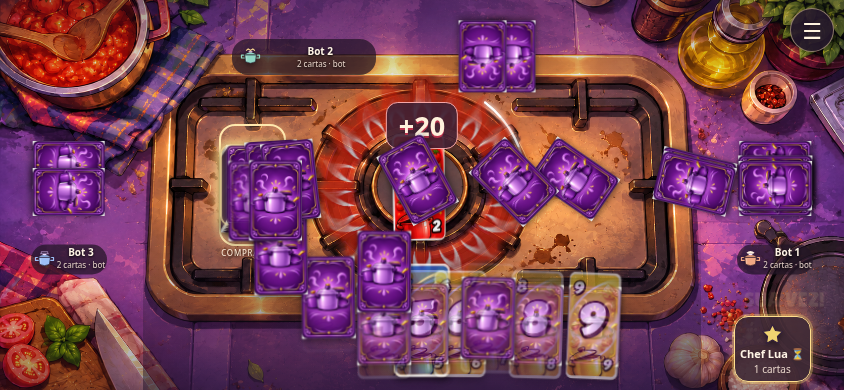
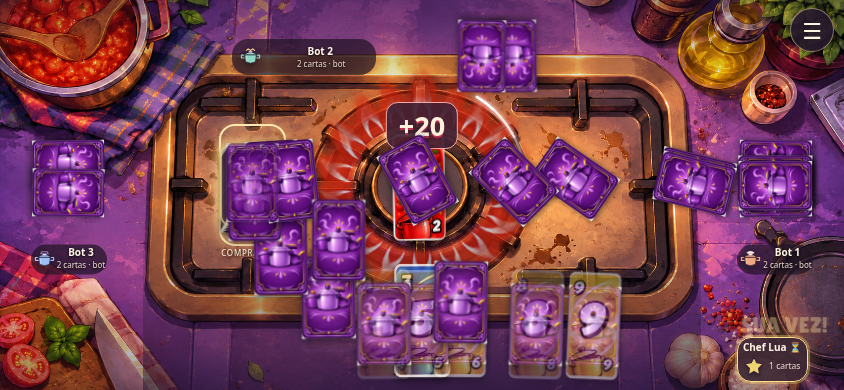
Compacta o card humano em landscape baixo sem sobrepor adversário e aviso

diff --git a/IMPORTACAO_PANELAS/index.html b/IMPORTACAO_PANELAS/index.html
@@ -416,7 +416,7 @@ function finishControlHTML(){let ranks=s.summary.map(x=>`<div class="notice"><st
 function render(){if(!s)return;PanelasMesa.beforeRender(s);$('roundLabel').textContent=`Rodada ${s.round} · ${s.o.duo?'Duplas':'Individual'}`;$('status').textContent=s.phase==='playing'?`Vez de ${names(s.current)}`:s.phase==='roundOver'?'Fim da rodada':'Fim da partida';
 $('score').innerHTML=s.o.duo?`<span>${safeName(0)} + Bot 2: ${s.teams[0]}</span><span>Bot 1 + Bot 3: ${s.teams[1]}</span>`:s.players.map(p=>`<span>${safeName(p.id)}: ${p.score}</span>`).join('');
 $('stateText').textContent=s.phase==='playing'?`Sentido: ${s.direction===-1?'horário':'anti-horário'} · Cor: ${CN[s.activeColor]} · Monte: ${s.deck.length} · ${s.penalty?'PENALIDADE OBRIGATÓRIA +'+s.penalty:'Sem penalidade'}${s.o.timeout&&s.deadline?' · Tempo: '+Math.max(0,Math.ceil((s.deadline-Date.now())/1000))+'s':''}`:s.message;
-for(let i=0;i<4;i++){const p=s.players[i],active=s.current===i&&s.phase==='playing';const show=s.reveal||(s.o.duo&&i===2);let node=$('player'+i);node.classList.toggle('active',active);node.innerHTML=`<div class="name">${safeName(i)} ${active?'⏳':''}${s.o.duo?' <span class="tag">'+(i%2?'B':'A')+'</span>':''}</div><div class="sub">${p.hand.length} cartas${i===0?'':' · bot'}</div>${i!==0?(show?'<div class="subhand">'+p.hand.map(c=>cardHTML(c,true)).join('')+'</div>':'<div class="back">'+'▰ '.repeat(Math.min(6,p.hand.length))+'</div>'):''}`;}
+for(let i=0;i<4;i++){const p=s.players[i],active=s.current===i&&s.phase==='playing';const show=s.reveal||(s.o.duo&&i===2);let node=$('player'+i);node.classList.toggle('active',active);node.innerHTML=`<div class="name" title="${safeName(i)}">${safeName(i)} ${active?'⏳':''}${s.o.duo?' <span class="tag">'+(i%2?'B':'A')+'</span>':''}</div><div class="sub">${p.hand.length} cartas${i===0?'':' · bot'}</div>${i!==0?(show?'<div class="subhand">'+p.hand.map(c=>cardHTML(c,true)).join('')+'</div>':'<div class="back">'+'▰ '.repeat(Math.min(6,p.hand.length))+'</div>'):''}`;}
 $('pile').innerHTML=`<div class="card" style="background:#283f68;color:#b9d1ff;border:2px solid #718cbb"><small>MONTE</small><span>⬚</span><small>${s.deck.length}</small></div>`;$('discard').innerHTML=PanelasMesa.discardHTML(s.discard,cardHTML,s);$('centerMsg').innerHTML=`Cor: <strong>${CN[s.activeColor]}</strong><div>${s.penalty?'⚠ OBRIGATÓRIO +'+s.penalty:'Carta central'}</div>`;
 $('handCount').textContent=s.players[0].hand.length+' cartas';
 const cards=[...s.players[0].hand].sort((a,b)=>(COLORS.indexOf(a.color)+1||9)-(COLORS.indexOf(b.color)+1||9)||a.type.localeCompare(b.type)||(a.num??0)-(b.num??0));

diff --git a/IMPORTACAO_PANELAS/mesa.css b/IMPORTACAO_PANELAS/mesa.css
@@ -346,5 +346,12 @@ body.playing { overflow:hidden; height:100vh; height:100dvh; }
 @keyframes mandatory-draw {0%,100%{opacity:.7;filter:brightness(1)}50%{opacity:1;filter:brightness(1.4);box-shadow:0 0 19px #ffc568,inset 0 0 9px #ffe7b0}}
 @media(orientation:portrait){#turnCue {right:16px;bottom:clamp(150px,28vh,240px);max-width:140px;font-size:24px}}
 @media(prefers-reduced-motion:reduce){.hand {transition:none}#buyBtn.mandatory-buy::after {animation:none}}
+/* HUD compacto em telas baixas: nome e avatar não avançam sobre o adversário lateral. */
+@media(orientation:landscape) and (max-height:600px){
+ .seat.self {display:grid;grid-template-columns:22px minmax(0,1fr);grid-template-rows:auto auto;gap:2px 3px;padding:4px 5px}
+ .seat.self>.name {grid-column:1 / -1;grid-row:1;font-size:10px;line-height:1.15;display:-webkit-box;-webkit-box-orient:vertical;-webkit-line-clamp:2;overflow:hidden}
+ .seat.self>.pan-avatar {grid-column:1;grid-row:2;width:22px;height:22px}
+ .seat.self>.sub {grid-column:2;grid-row:2;font-size:8.5px;line-height:1.1;min-width:0}
+}
 .table[data-direction="-1"] .tail-clockwise.tail-mid,.table[data-direction="1"] .tail-counterclockwise.tail-mid{opacity:.4}
 .table[data-direction="-1"] .tail-clockwise.tail-near,.table[data-direction="1"] .tail-counterclockwise.tail-near{opacity:.7}

diff --git a/IMPORTACAO_PANELAS/mesa.js b/IMPORTACAO_PANELAS/mesa.js
@@ -460,7 +460,7 @@
       }
     }
     const self=$('player0').getBoundingClientRect(),tableRect=$('table').getBoundingClientRect();
-    $('table').style.setProperty('--turn-cue-bottom',`${tableRect.bottom-self.top+8}px`);
+    $('table').style.setProperty('--turn-cue-bottom',`${tableRect.bottom-self.top+(innerWidth>innerHeight&&innerHeight<=600?2:8)}px`);
     fan($('hand'), innerWidth < 360 ? 7 : 9, savedScroll);
     const top=state.discard[state.discard.length-1];
     displayedTop=top?.id ?? null;

diff --git a/testes/HORIZONTAL_IDENTIDADE_RESULTADOS.md b/testes/HORIZONTAL_IDENTIDADE_RESULTADOS.md
@@ -7,7 +7,7 @@ Base: `android/apk-testes` após 0.2.22/c4202, commit `c0cb608`.
 - **Android exclusivamente horizontal:** `sensorLandscape` na única Activity, aceitando os dois sentidos horizontais. Categoria `game` declarada: a documentação do Android 16/API 36 exclui jogos da regra que ignora orientação em telas grandes. Imersão permanente, recortes, teclado e Back existentes preservados. O verificador do APK exige orientação e categoria. Referência oficial: https://developer.android.com/about/versions/16/behavior-changes-16#adaptive-layouts.
 - **Nome e avatar:** tela intermediária comum aos fluxos Um jogador e Multiplayer, com campo de nome, seis ícones SVG temporários locais, prévia, Continuar e Voltar. `perfil.js` grava somente `panelinha.player.v1`, não apaga outros dados e captura a identidade ao iniciar a partida. Nomes são escapados ao entrar em HTML. Nome/avatar aparecem no humano, placares, classificação e equipe; bots continuam independentes. Sem rede, conta ou multiplayer real.
 - **Mesa limpa:** removido o texto de liberação da próxima jogada/cortes abertos e o lembrete permanente de corte. Mantidos faca, controles contextuais, registros e a janela de 2200 ms.
-- **SUA VEZ!:** surge quando o turno humano fica disponível; entrada curta, seguida de redução visual. Próximo ao card humano, sem ocupar o descarte e sem reiniciar em cada render. Altura ajustada ao card para nomes longos.
+- **SUA VEZ!:** surge quando o turno humano fica disponível; entrada curta, seguida de redução visual. Próximo ao card humano, sem ocupar o descarte e sem reiniciar em cada render. Altura ajustada ao card para nomes longos. Em landscape baixo, o card humano usa duas linhas de nome e uma linha para avatar/contagem, sem sobrepor o adversário; nomes extensos podem ser truncados visualmente, com valor completo no perfil, resultados, título e identificação acessível. Os rótulos de Voltar levam corretamente à identificação.
 - **Compra obrigatória:** brilho pulsante no contorno do monte somente no turno humano disponível, sem carta válida, sem compra já realizada, sem modal pendente e sem desafio disponível. Respostas legais à penalidade, inclusive Panela de Pressão, impedem o destaque. O efeito some no mesmo render em que a condição termina. Toque direto, contador, seis cartas do monte e compras individuais preservados.
 - **+6 opcional:** ativada por padrão; `settings().wild6` é capturado em uma nova partida. `buildDeck` inclui duas +6 salvo `wild6 === false`, mantendo compatibilidade com opções antigas. Com Panela/Liquidificador: 118 cartas ativada, 116 desligada. Todas as novas rodadas usam a opção capturada; a reciclagem não cria cartas. Laboratório informa a opção e impede injetar +6 desligada. Desafios +4 continuam disponíveis; os de +6 mantêm o comportamento quando ativada.
 - **Mão humana:** escala uniforme de 1 para 1,06 em 240 ms quando a vez é liberada; retorno ao tamanho original no fim. Espaço lateral reservado mantém a mão centralizada. O leque contínuo, compactação/expansão e rolagem exclusivamente interna continuam funcionando. A geometria real, incluindo a escala, alimenta a origem dos descartes e os destinos das compras. Corte fora da vez mantém a mão normal e a faca acessível.
